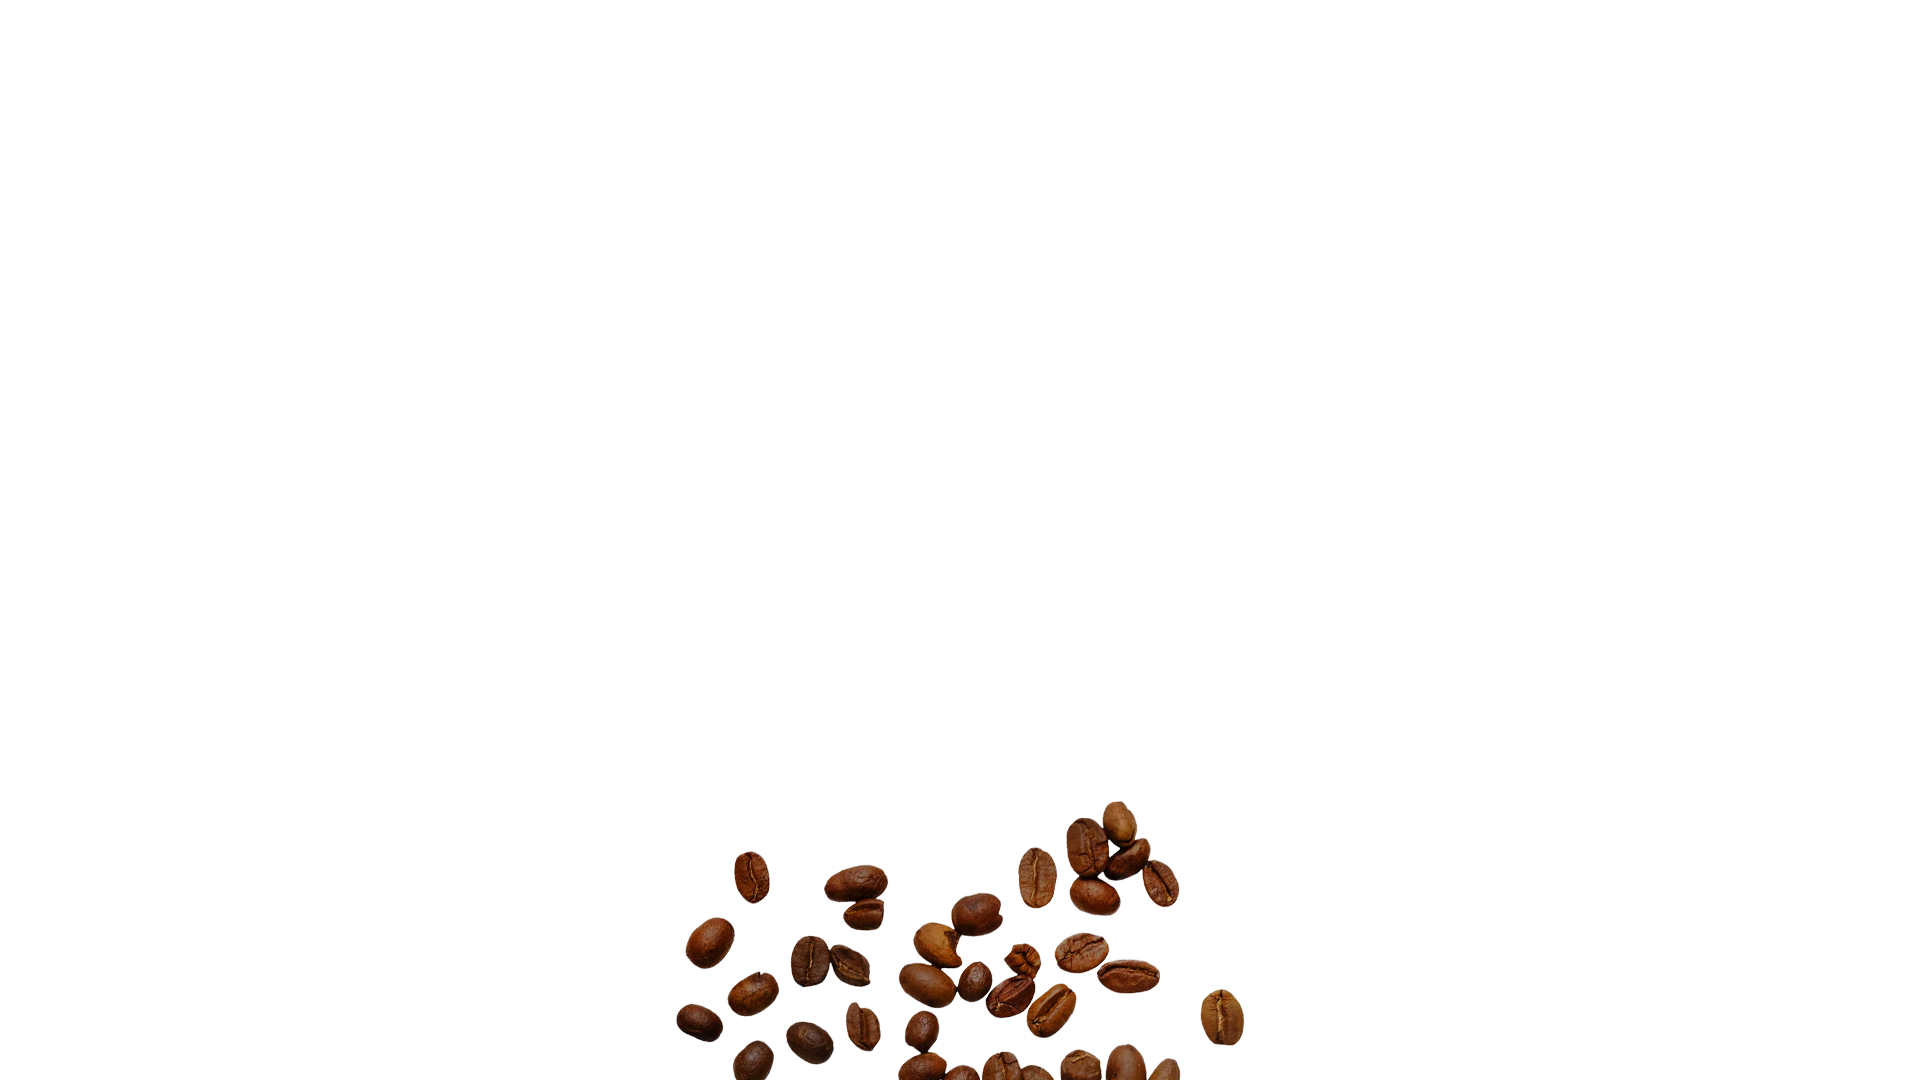
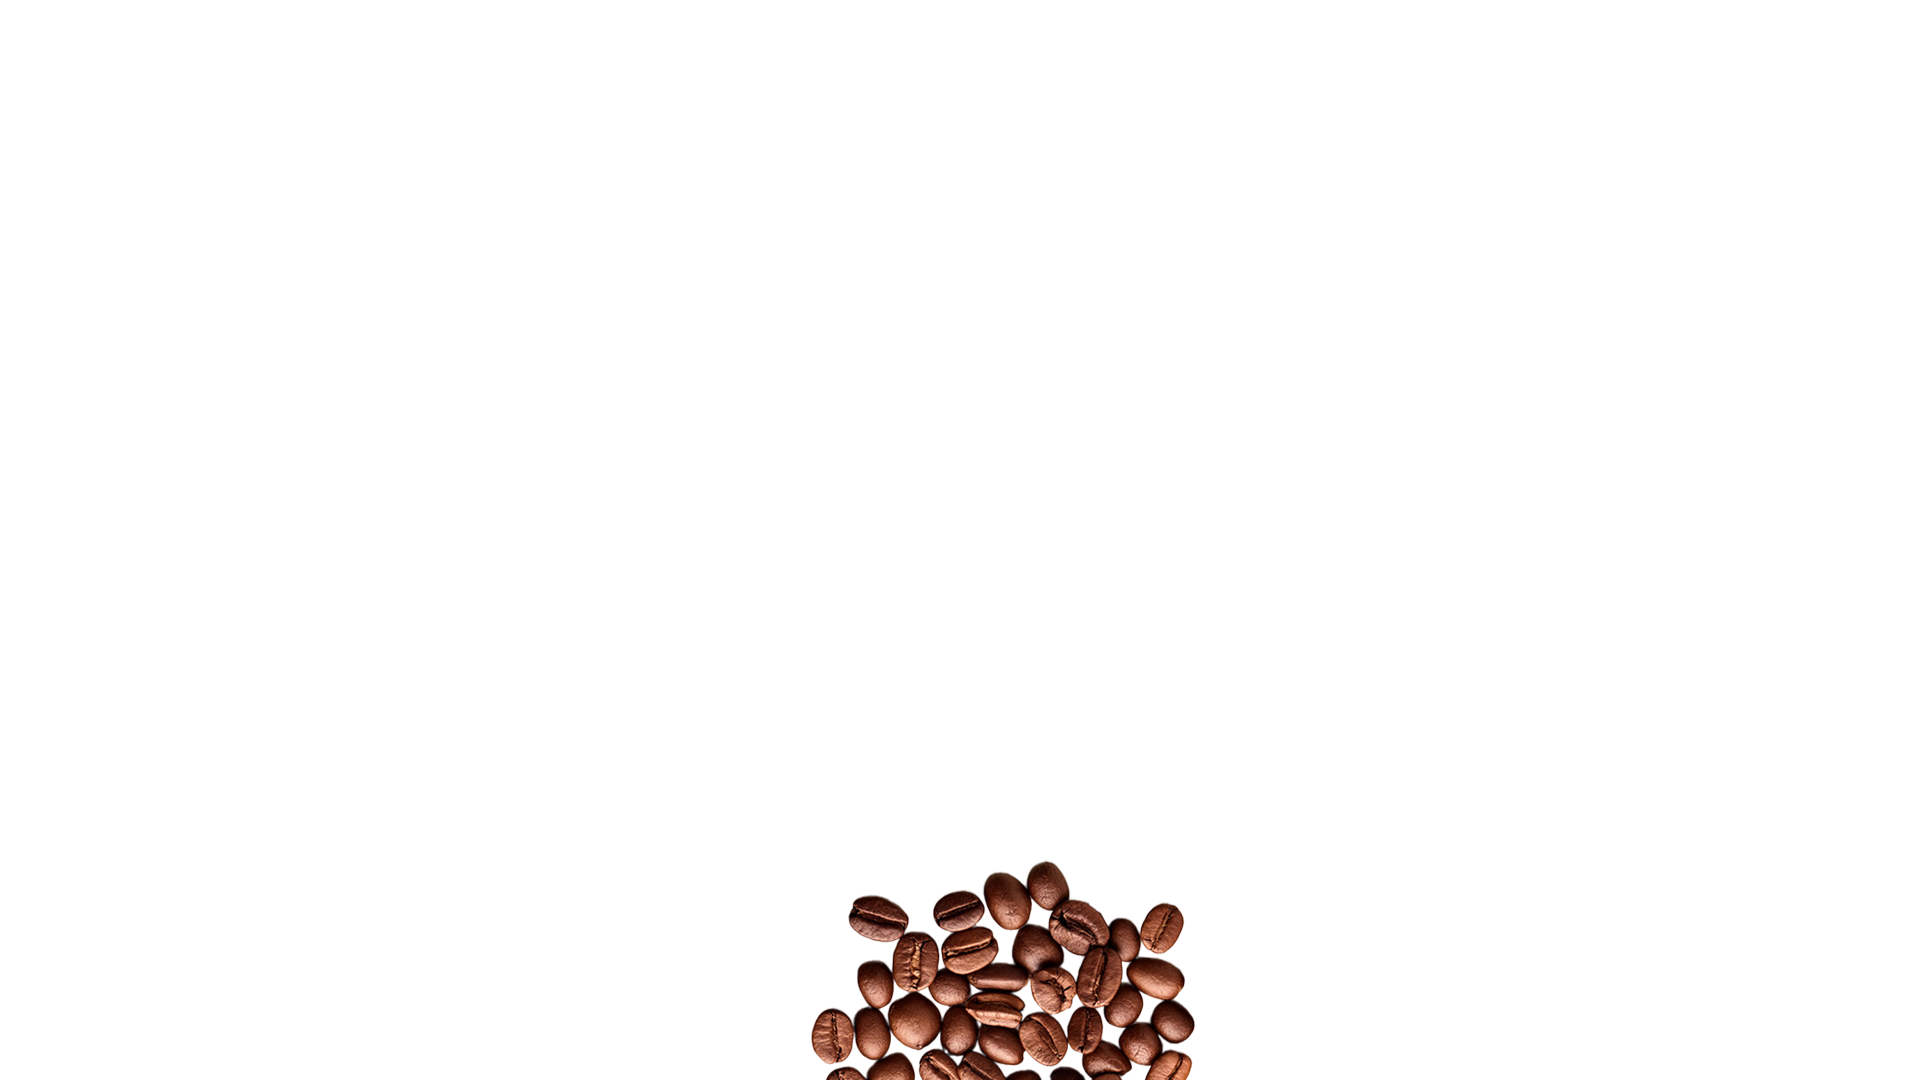
chore: Update npm dependencies and add new font package

Changed region(s): [[0.3438, 0.7333, 0.6562, 1.0]]

diff --git a/App/client/src/components/Welcome/Welcome.jsx b/App/client/src/components/Welcome/Welcome.jsx
@@ -1,8 +1,6 @@
 import React, { useState, useEffect } from "react";
-import { Grid, GridItem, Box } from "@chakra-ui/react";
+import { Box, Button, HStack, VStack } from "@chakra-ui/react";
 import { motion } from "framer-motion";
-import { borderRadius } from "../../assets/theme";
-import coffeVideo from '../../assets/videos/coffeVideo.mp4';
 import { useNavigate } from "react-router-dom";
 import CoffeeBeanBackground from "../CoffeeBeanBackground/CoffeeBeanBackground";
 import WelcomeText from "./components/WelcomeText";
@@ -22,18 +20,10 @@ const Welcome = () => {
 
   const handleGetStarted = () => {
     navigate("/home");
-  }
+  };
 
   const heading = "Welcome to Coffee-ML";
-  const description = "Coffee-ML is revolutionizing the way we evaluate coffee quality. Our cutting-edge technology harnesses the power of machine learning to analyze the intricate details of the coffee, unveiling their true potential like never before.";
-  const bulletPoints = [
-    "Advanced image analysis algorithms",
-    "Precise assessment of color and texture",
-    "Identify subtle nuances in coffee",
-    "Ensures a truly exceptional coffee experience"
-  ];
-  const strongText = "Why risk your enjoyment? Check your coffee first!";
-  const buttonText = "Get Started";
+  const subheading = "Our goal is your satisfaction";
 
   return (
     <>
@@ -48,43 +38,25 @@ const Welcome = () => {
           animate={{ opacity: 1 }}
           transition={{ duration: 1 }}
         >
-          <Grid
-            templateColumns={{ base: "1fr" }}
-            gap={6}
-            justifyContent="center"
-            alignItems="center"
-            p={4}
-            borderRadius={borderRadius}
-            bg="rgba(255,246,231,0.2)"
-            backdropFilter="blur(10px)"
-            boxShadow="0 4px 30px rgba(0, 0, 0, 0.1)"
-            textAlign="center"
-            w="75%"
-            margin="auto"
-          >
-            <GridItem>
-              <WelcomeText 
-                heading={heading}
-                description={description}
-                bulletPoints={bulletPoints}
-                strongText={strongText}
-                buttonText={buttonText}
-                handleButtonClick={handleGetStarted}
-              />
-            </GridItem>
-            <GridItem>
-              <Box width="100%" maxWidth="600px" mx="auto">
-                <video
-                  src={coffeVideo}
-                  alt="Welcome Video"
-                  autoPlay
-                  loop
-                  muted
-                  style={{ borderRadius: borderRadius, width: '100%' }}
-                />
-              </Box>
-            </GridItem>
-          </Grid>
+          <VStack width="100%">
+            <WelcomeText heading={heading} subheading={subheading} />
+
+            <Button
+              onClick={handleGetStarted}
+              mt={4}
+              variant={"outline"}
+              borderColor="#8B4513"
+              color="#8B4513"
+              _hover={{ bg: "#8B4513", color: "white" }}
+              rounded={"full"}
+              px={6}
+              py={3}
+              fontSize={"md"}
+              fontWeight={"light"}
+            >
+              Get Started Now!
+            </Button>
+          </VStack>
         </MotionBox>
       )}
     </>

diff --git a/App/client/src/components/Welcome/components/WelcomeText.jsx b/App/client/src/components/Welcome/components/WelcomeText.jsx
@@ -1,61 +1,40 @@
 import React from "react";
-import {
-  Box,
-  Text,
-  Button,
-  SimpleGrid,
-  Divider,
-} from "@chakra-ui/react";
-import { ChevronRightIcon } from "@chakra-ui/icons";
+import { Box } from "@chakra-ui/react";
 import ColorAnimated from "../../shared_components/ColorAnimated";
-import TextCard from "./TextCard"; // Adjust the path as needed
 
-const WelcomeText = ({ 
-  heading, 
-  description, 
-  bulletPoints, 
-  strongText, 
-  buttonText, 
-  handleButtonClick 
-}) => {
-  const images = [
-    'https://images.pexels.com/photos/1695052/pexels-photo-1695052.jpeg?auto=compress&cs=tinysrgb&w=1260&h=750&dpr=2',
-    'https://images.pexels.com/photos/324028/pexels-photo-324028.jpeg?auto=compress&cs=tinysrgb&w=1260&h=750&dpr=2',
-    'https://images.pexels.com/photos/2396220/pexels-photo-2396220.jpeg?auto=compress&cs=tinysrgb&w=1260&h=750&dpr=2',
-    'https://images.pexels.com/photos/1309778/pexels-photo-1309778.jpeg?auto=compress&cs=tinysrgb&w=1260&h=750&dpr=2',
-  ];
-
+const WelcomeText = ({ heading, subheading }) => {
+  const titlesObj = {
+    coffee: {
+      colors: ["#4B2E1A", "#8B4513"],
+      fontSize: "6xl",
+      fontFamily: "DM Serif Display",
+      fontWeight: "bold",
+    },
+    description: {
+      colors: ["#8B4513", "#E1B88B"],
+      fontSize: "xl",
+      fontFamily: "Plus Jakarta Sans Variable",
+      fontWeight: "100",
+    },
+  };
   return (
     <Box maxWidth="80%" mx="auto" textAlign="center">
-      <ColorAnimated text={heading} />
-      {/* <Text mb={4} textAlign={{ base: "center", md: "center" }}>
-        {description}
-      </Text> */}
-      <Divider mb={4} borderColor="yellow.600" />
-      <SimpleGrid columns={{ base: 1, md: 2 }} spacing={4} mb={4}>
-        {bulletPoints.map((point, index) => (
-          <TextCard key={index} imageUrl={images[index]} text={point} />
-        ))}
-      </SimpleGrid>
-      <Divider mb={4} borderColor="yellow.600" />
-      <Text mb={6} textAlign="center" color="yellow.600">
-        <strong>{strongText}</strong>
-      </Text>
-      <Button
-        rightIcon={<ChevronRightIcon />}
-        fontFamily="DM Serif Display"
-        variant="outline"
-        size="lg"
-        borderColor="yellow.600"
-        color="yellow.600"
-        _hover={{ bg: "yellow.600", color: "white" }}
-        _active={{ bg: "yellow.600", color: "white" }}
-        _focus={{ boxShadow: "none" }}
-        rounded="full"
-        onClick={handleButtonClick}
-      >
-        {buttonText}
-      </Button>
+      <ColorAnimated
+        text={heading}
+        colors={titlesObj.coffee.colors}
+        size={titlesObj.coffee.fontSize}
+        fontFamily={titlesObj.coffee.fontFamily}
+        fontWeight={titlesObj.coffee.fontWeight}
+      />
+      <Box mt={2}>
+        <ColorAnimated
+          text={subheading}
+          colors={titlesObj.description.colors}
+          size={titlesObj.description.fontSize}
+          fontFamily={titlesObj.description.fontFamily}
+          fontWeight={titlesObj.description.fontWeight}
+        />
+      </Box>
     </Box>
   );
 };

diff --git a/App/client/src/components/CoffeeBeanBackground/CoffeeBeanBackground.jsx b/App/client/src/components/CoffeeBeanBackground/CoffeeBeanBackground.jsx
@@ -6,6 +6,8 @@ import coffee2 from '../../assets/images/coffee2.png';
 import coffee3 from '../../assets/images/coffee3.png';
 import coffee4 from '../../assets/images/coffee4.png';
 import coffee5 from '../../assets/images/coffee5.png';
+import coffee6 from '../../assets/images/coffee6.png';
+import coffee7 from '../../assets/images/coffee7.png';
 
 const MotionBox = motion(Box);
 
@@ -13,12 +15,38 @@ const CoffeeBeanBackground = () => {
   const controls = useAnimation();
 
   useEffect(() => {
-    controls.start((i) => ({
-      opacity: 1,
-      y: 0,
-      x: 0,
-      transition: { delay: i * 0.2, duration: 0.8 },
-    }));
+    const animateSequence = async () => {
+      await controls.start((i) => ({
+        opacity: 1,
+        y: 0,
+        x: 0,
+        transition: { delay: i * 0.2, duration: 0.8 },
+      }));
+
+      // Blur coffee1 and coffee4 after initial animation
+      await controls.start((i) => {
+        if (i === 0 || i === 2) {
+          return {
+            filter: 'blur(4px)',
+            transition: { delay: 0.2, duration: 1 }
+          };
+        }
+        return {};
+      });
+
+      // Fade in coffee7 at the end
+      controls.start((i) => {
+        if (i === 6) { // Assuming coffee7 is at index 6
+          return {
+            opacity: 1,
+            transition: { delay: 2, duration: 1 } // Adjust delay as needed
+          };
+        }
+        return {};
+      });
+    };
+
+    animateSequence();
   }, [controls]);
 
   const imageVariants = [
@@ -27,11 +55,9 @@ const CoffeeBeanBackground = () => {
     { initial: { x: '100%', opacity: 0 }, animate: controls, src: coffee3 },
     { initial: { y: '-100%', opacity: 0 }, animate: controls, src: coffee4 },
     { initial: { y: '100%', opacity: 0 }, animate: controls, src: coffee5 },
+    { initial: { y: '-100%', opacity: 0 }, animate: controls, src: coffee6 },
+    { initial: { opacity: 0 }, animate: controls, src: coffee7 },
   ];
-
-  const blurVariants = {
-    blurred: { filter: 'blur(30px)', transition: { delay: 1, duration: 1 } },
-  };
 
   return (
     <Box position="fixed" width="100%" height="100vh" top="0" left="0" zIndex="-1" overflow="hidden">
@@ -40,7 +66,7 @@ const CoffeeBeanBackground = () => {
           key={index}
           custom={index}
           initial={variant.initial}
-          animate={{ ...variant.animate, ...blurVariants.blurred }}
+          animate={variant.animate}
           width="100%"
           height="100%"
           position="absolute"
@@ -55,6 +81,7 @@ const CoffeeBeanBackground = () => {
           />
         </MotionBox>
       ))}
+
     </Box>
   );
 };

diff --git a/App/client/src/components/shared_components/ColorAnimated.jsx b/App/client/src/components/shared_components/ColorAnimated.jsx
@@ -1,0 +1,32 @@
+import React from "react";
+import { Text } from "@chakra-ui/react";
+import "@fontsource/dm-serif-display";
+import '@fontsource-variable/plus-jakarta-sans';
+import styled, { keyframes } from "styled-components";
+
+const colorTransition = (colors) => keyframes`
+  ${colors.map((color, index) => `
+    ${(index / colors.length) * 100}% {
+      color: ${color};
+    }
+  `).join('\n')}
+  100% {
+    color: ${colors[0]};
+  }
+`;
+
+const AnimatedText = styled.span`
+  animation: ${props => colorTransition(props.colors)} ${props => props.colors.length * 3}s linear infinite;
+`;
+
+const ColorAnimated = ({ text, colors, size, fontFamily,fontWeight }) => {
+  return (
+    <Text fontSize={size} fontWeight={fontWeight} mb={2} fontFamily={fontFamily}>
+      <AnimatedText colors={colors}>
+        {text}
+      </AnimatedText>
+    </Text>
+  );
+};
+
+export default ColorAnimated;
